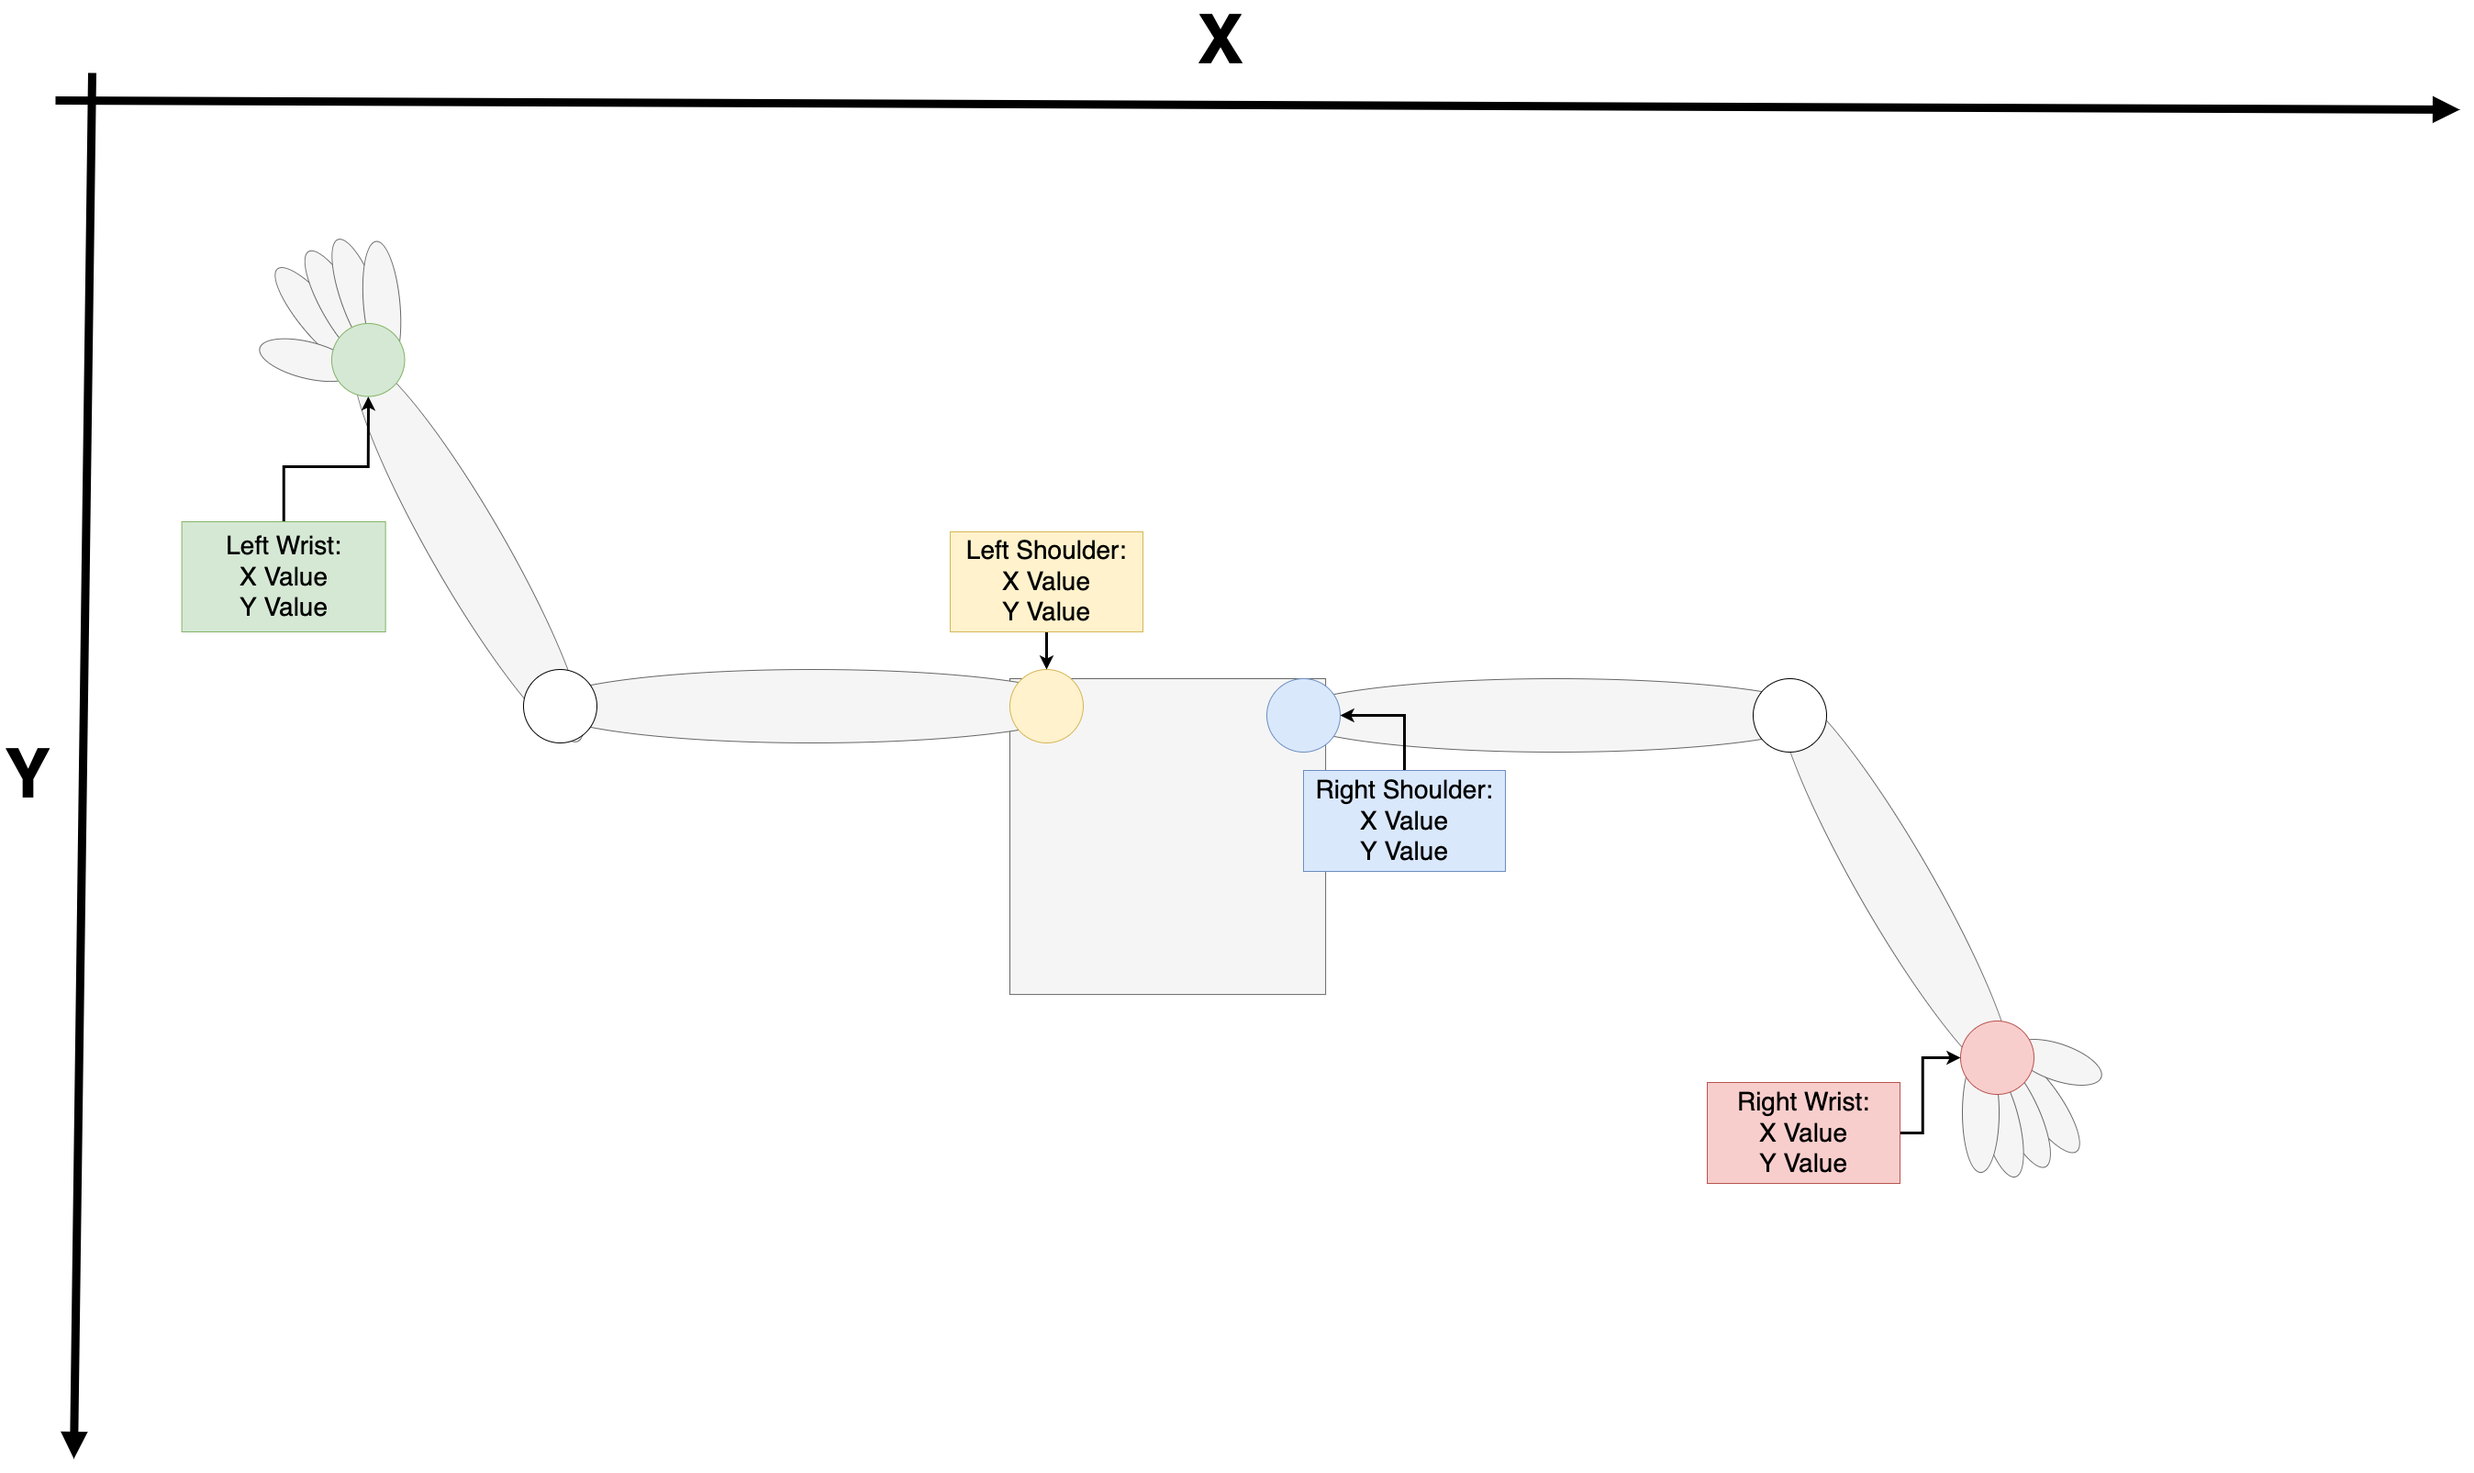
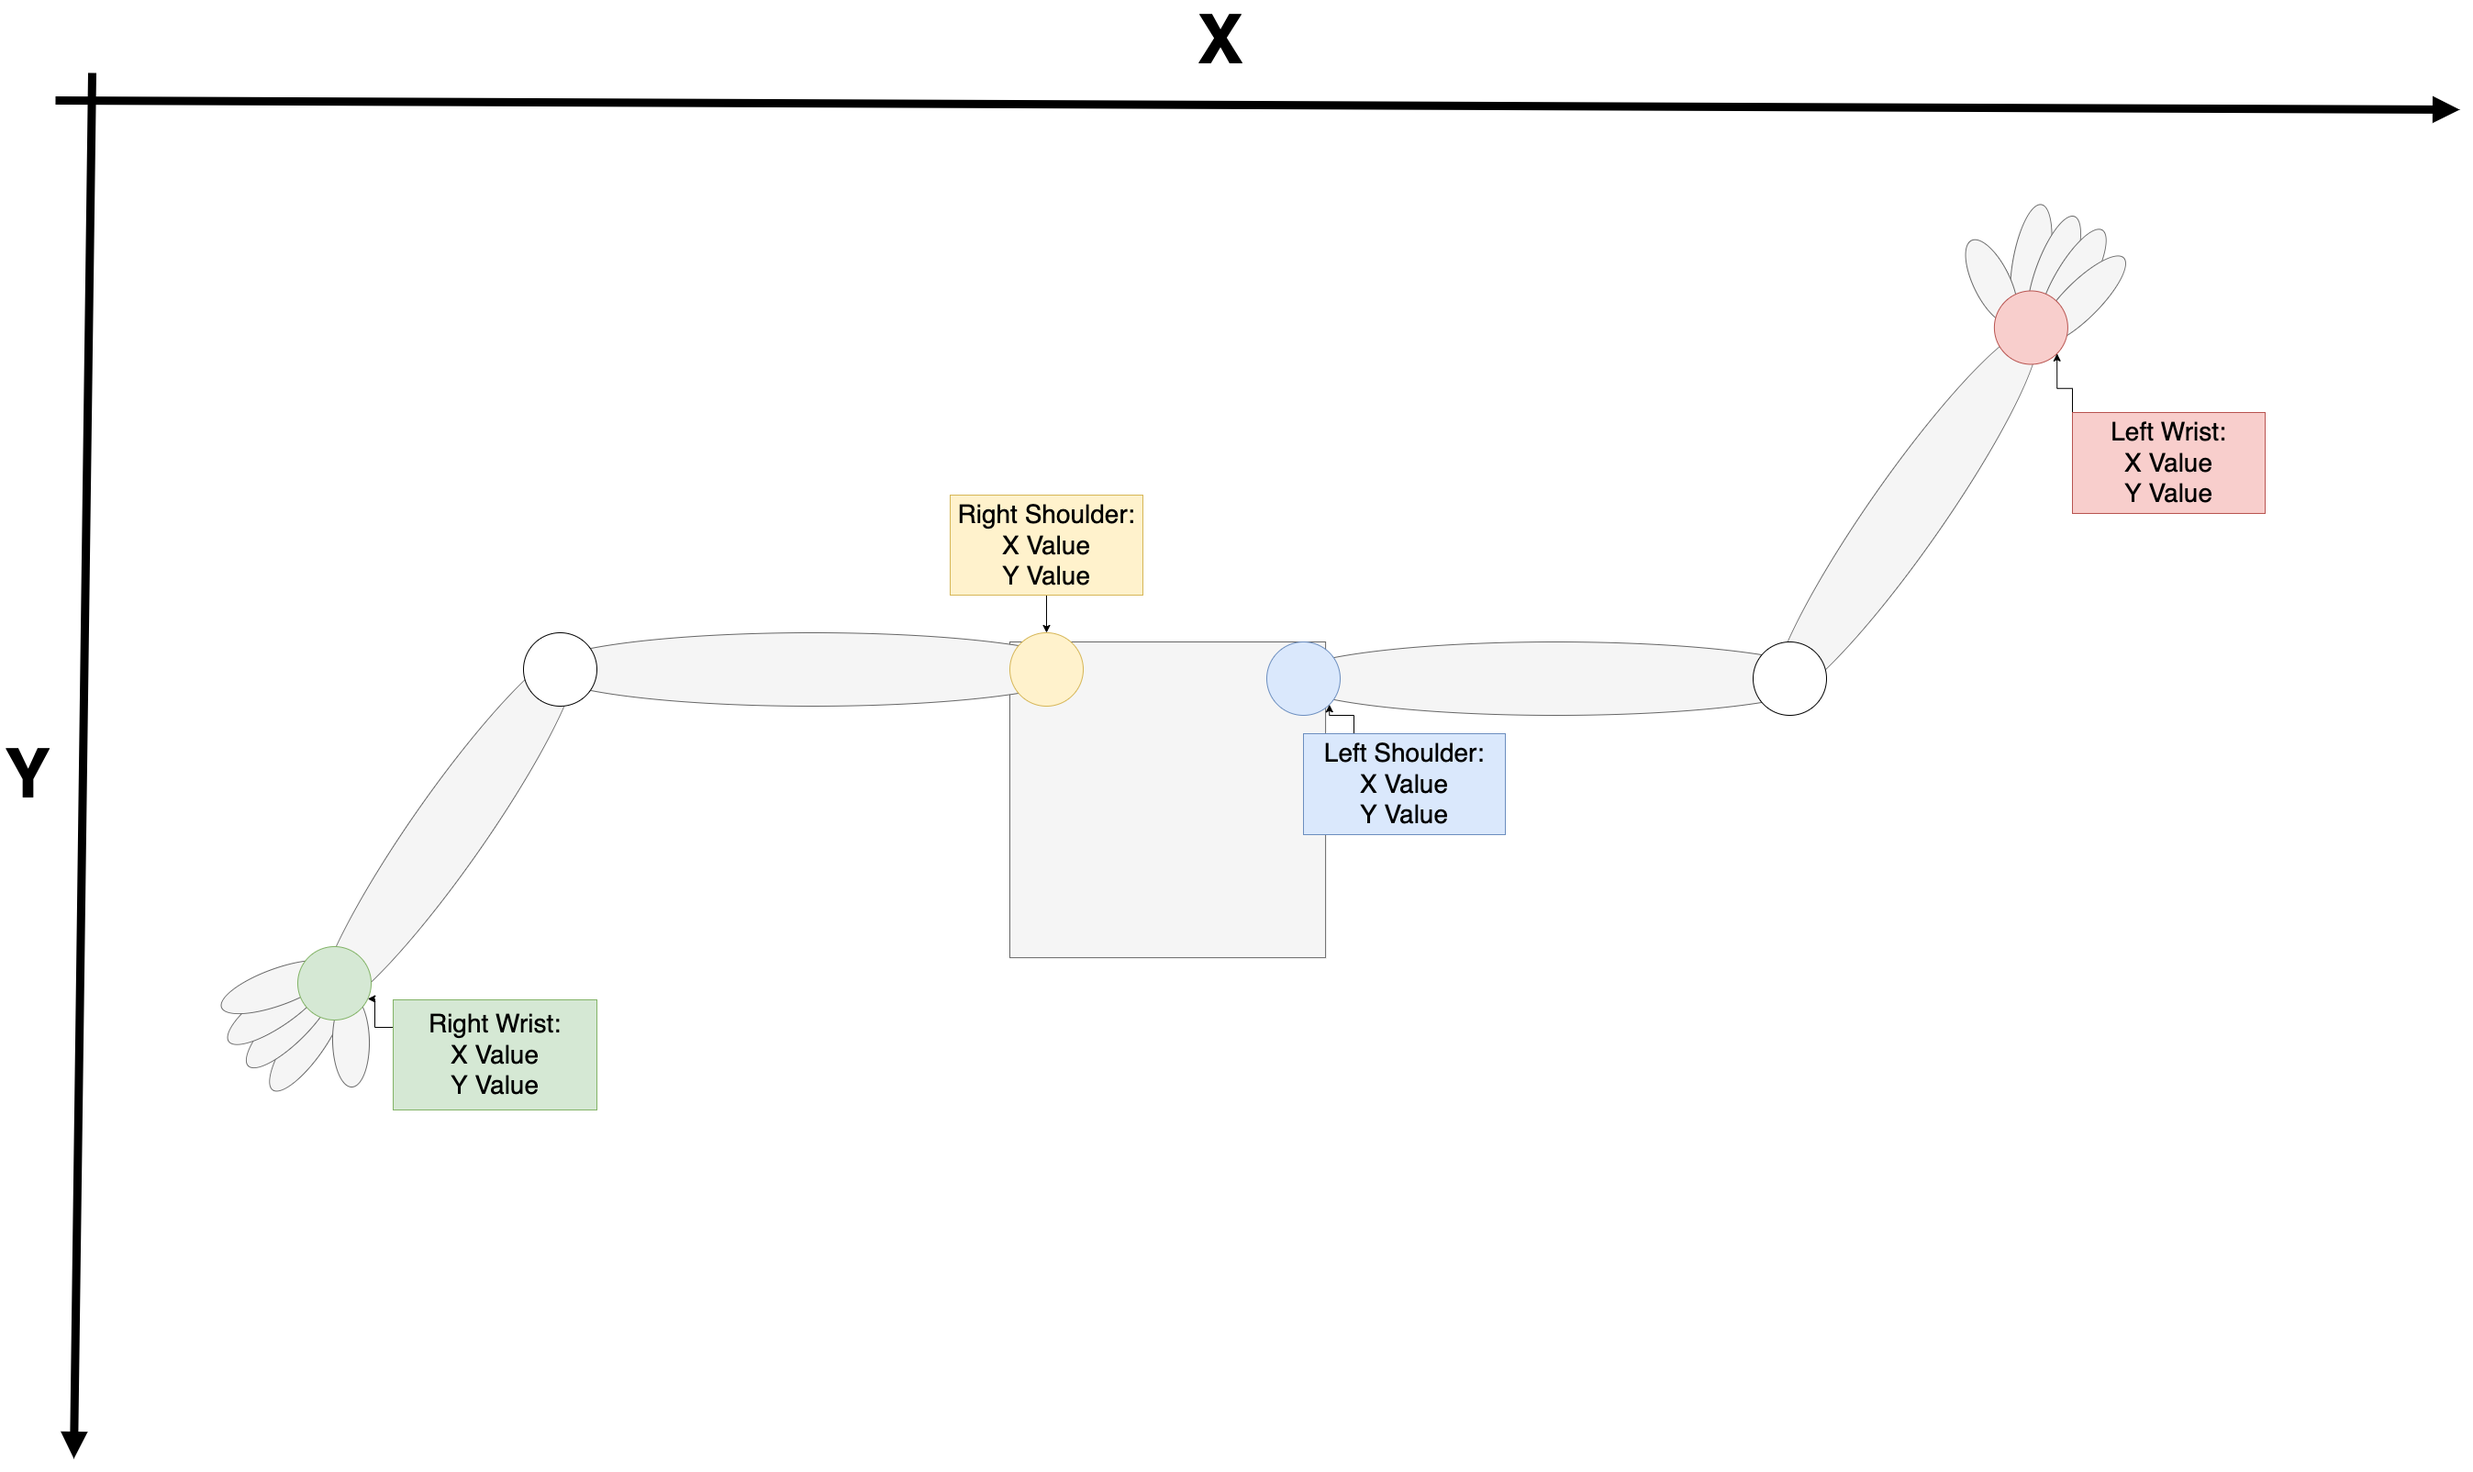
update

diff --git a/doc/documentation/Doku.tex b/doc/documentation/Doku.tex
@@ -325,6 +325,9 @@ This is shown here:
 	\label{video_frame}
 \end{figure}
 
+It must be noted, that everything the camera captures is mirrored, thus the left arm 
+in this picture correlates to the right arm in real live.
+This will become more obvious when we dive into the poses in detail.
 \subsection{Poses}
 
 This chapter explains how the three poses are recognized by the drone.\\\\
